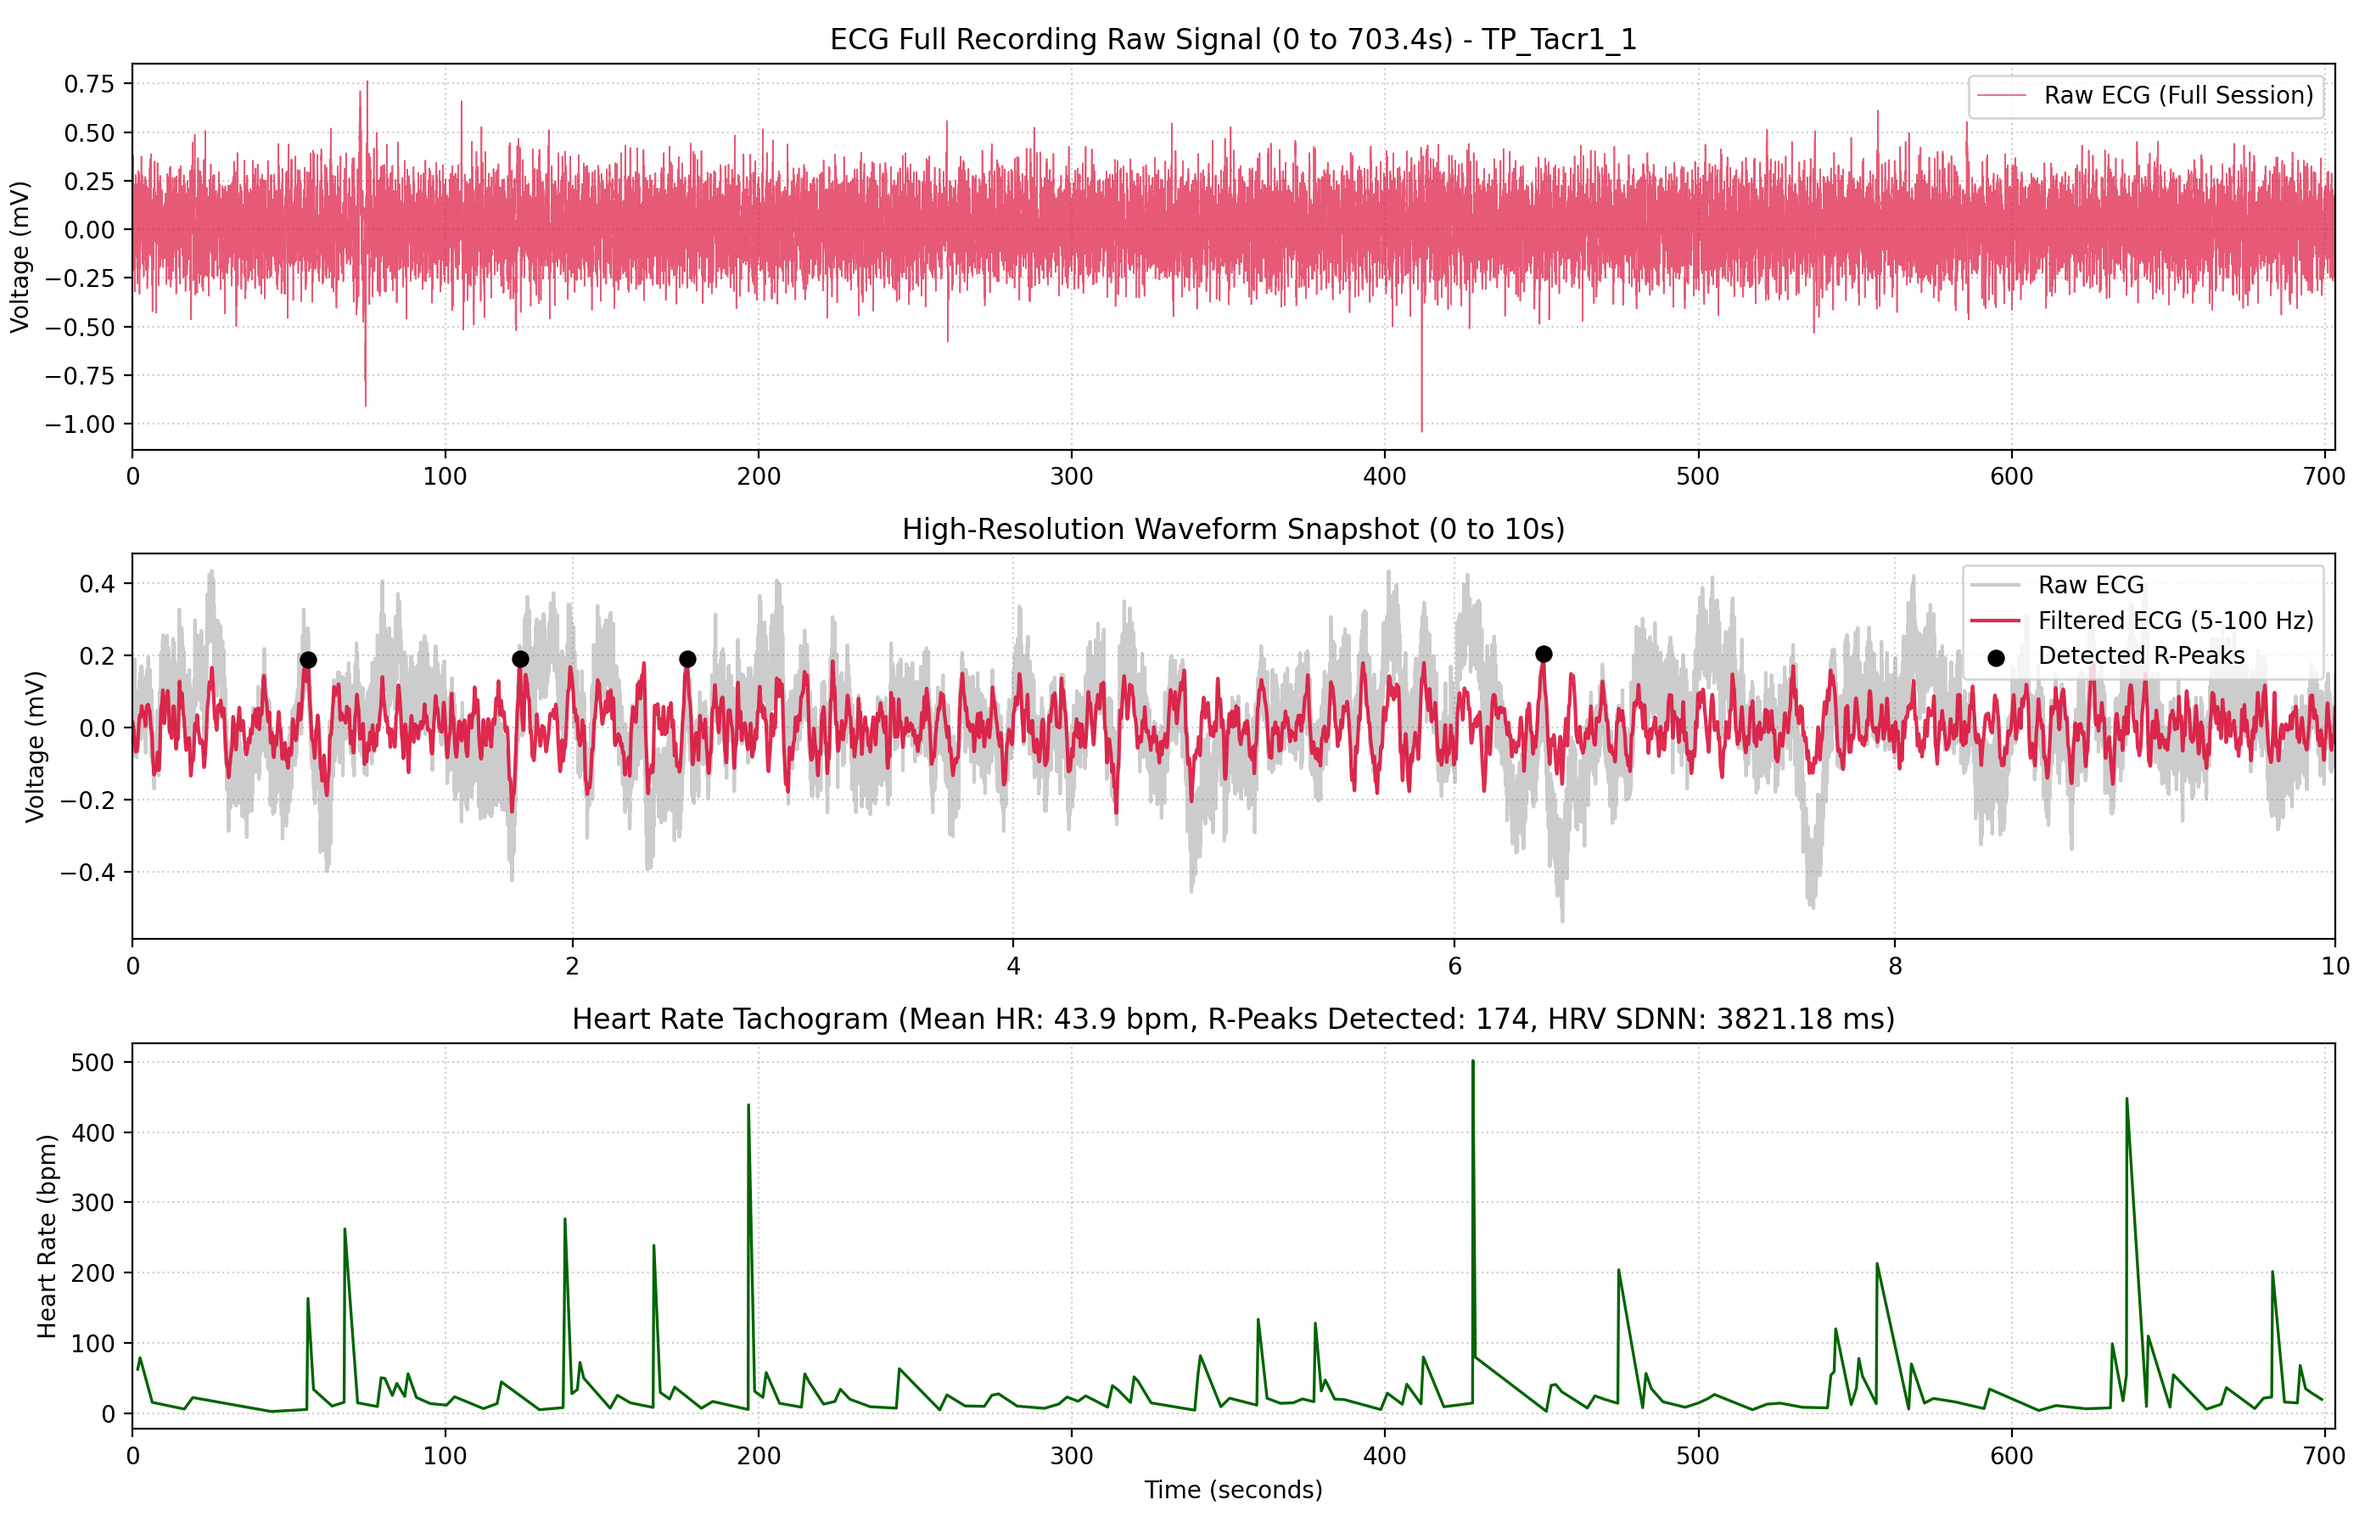
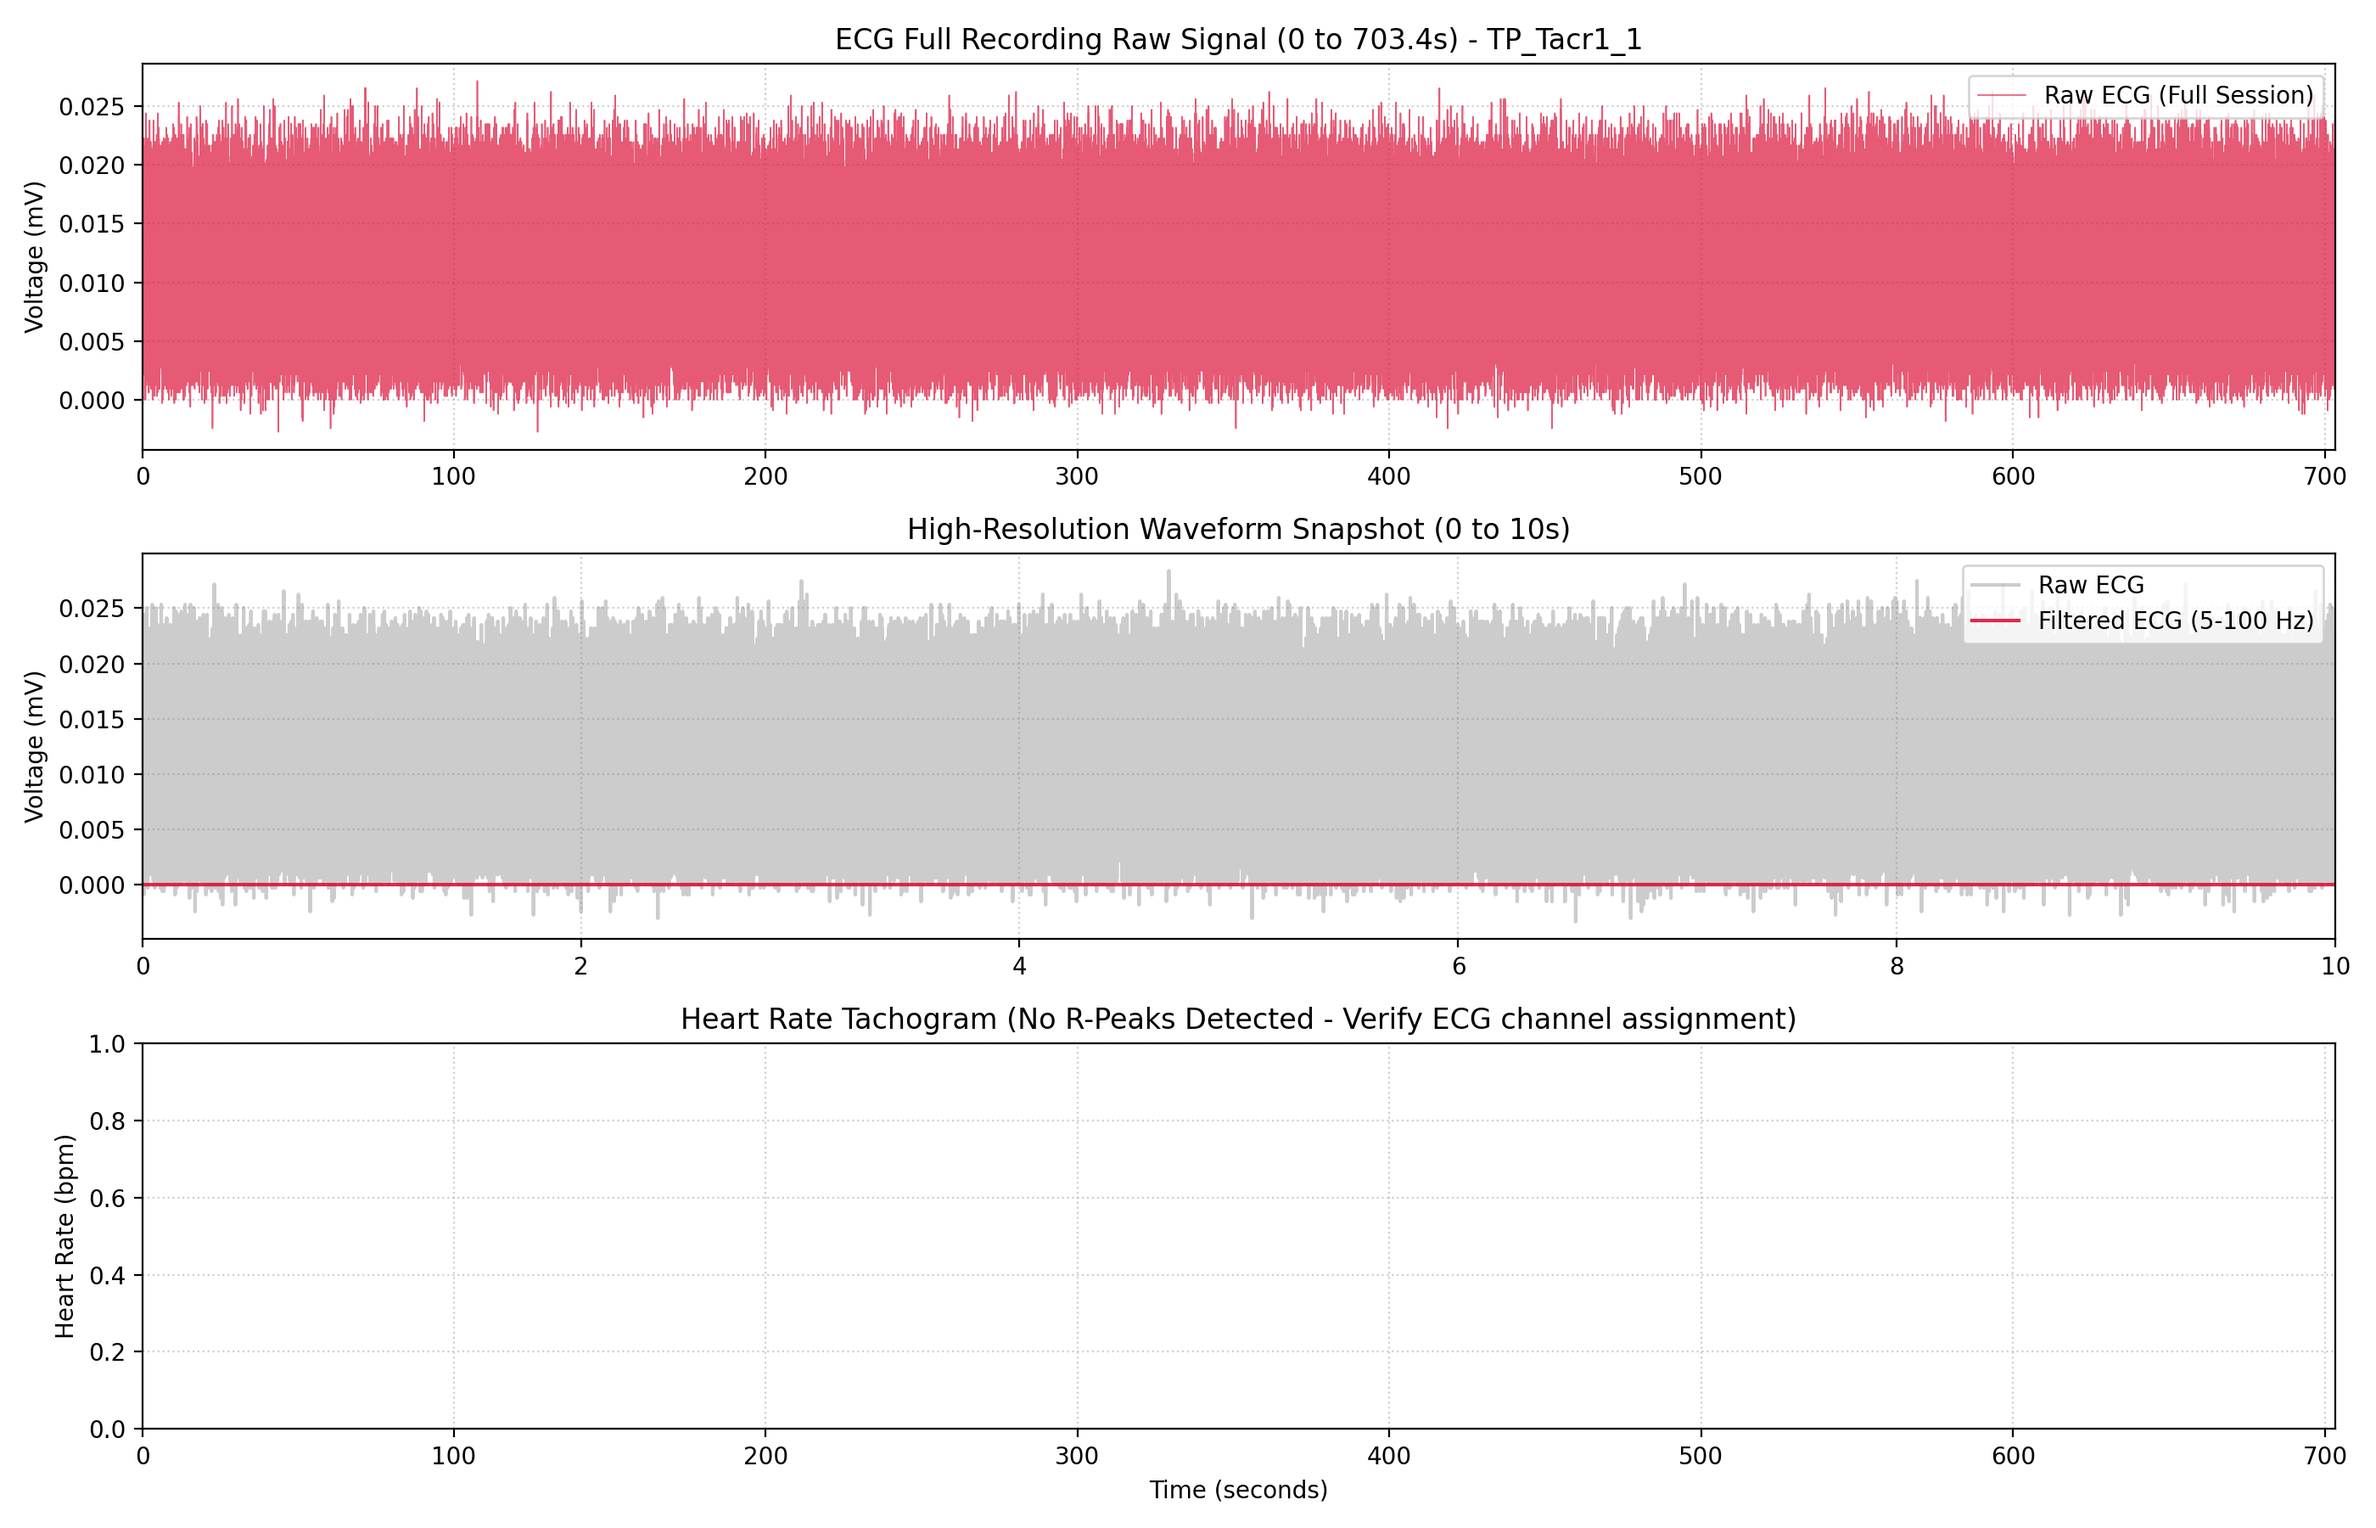
Set default ECG channel to 1 (XA1;1), add --no-ecg flag and enabled toggle for datasets without ECG

diff --git a/src/pipeline/journaler.py b/src/pipeline/journaler.py
@@ -39,8 +39,11 @@ def checkpoint_approve_parameters(config: PipelineConfig, interactive: bool = Tr
     print(f"    Passband: {config.emg.highpass_cutoff} Hz - {config.emg.lowpass_cutoff} Hz | Notch: {config.emg.notch_freq} Hz")
     print(f"    Smoothing Window: {config.emg.smoothing_window_ms} ms | Peak Threshold: {config.emg.peak_threshold_sd} SD")
     print(f"    Apnea Threshold: {config.emg.apnea_threshold_s} s")
-    print(f" - ECG Channel Index: {config.ecg.channel_index} | Fs: {config.ecg.fs} Hz")
-    print(f"    Passband: {config.ecg.highpass_cutoff} Hz - {config.ecg.lowpass_cutoff} Hz | R-Peak Threshold: {config.ecg.r_peak_threshold_sd} SD")
+    if config.ecg.enabled:
+        print(f" - ECG Channel Index: {config.ecg.channel_index} | Fs: {config.ecg.fs} Hz")
+        print(f"    Passband: {config.ecg.highpass_cutoff} Hz - {config.ecg.lowpass_cutoff} Hz | R-Peak Threshold: {config.ecg.r_peak_threshold_sd} SD")
+    else:
+        print(f" - ECG Channel Index: Disabled / Not Recorded")
     print(f" - Sync Channel Index: {config.sync_opto.sync_channel_index} | Opto Channel Index: {config.sync_opto.opto_channel_index}")
     print(f"    Pulse TTL Threshold: {config.sync_opto.pulse_threshold_v} V")
     print(f" - Neuropixel AP Fs: {config.ephys.fs_ap} Hz | PSTH Bin: {config.ephys.bin_size_ms} ms")

diff --git a/scripts/run_local_preproc.py b/scripts/run_local_preproc.py
@@ -25,7 +25,8 @@ def main():
     
     # Channel Index Flags
     parser.add_argument("--emg-channel", type=int, default=0, help="EMG channel index (default: 0)")
-    parser.add_argument("--ecg-channel", type=int, default=3, help="ECG channel index (default: 3)")
+    parser.add_argument("--ecg-channel", type=int, default=1, help="ECG channel index (default: 1 for xa1;1)")
+    parser.add_argument("--no-ecg", action="store_true", help="Disable ECG processing if no ECG was recorded")
     parser.add_argument("--sync-channel", type=int, default=7, help="Sync channel index (default: 7)")
     parser.add_argument("--opto-channel", type=int, default=2, help="Opto channel index (default: 2)")
 
@@ -47,6 +48,7 @@ def main():
                 cfg_dict = cfg_dict["config"]
         config = PipelineConfig.from_dict(cfg_dict)
     else:
+        ecg_enabled = not args.no_ecg
         config = PipelineConfig(
             animal_id=args.animal_id,
             session_id=args.session_id,
@@ -60,6 +62,7 @@ def main():
                 peak_threshold_sd=args.emg_peak_sd
             ),
             ecg=ECGConfig(
+                enabled=ecg_enabled,
                 channel_index=args.ecg_channel,
                 r_peak_threshold_sd=args.ecg_peak_sd
             ),

diff --git a/src/pipeline/processors/proc_ecg.py b/src/pipeline/processors/proc_ecg.py
@@ -14,6 +14,15 @@ def process_ecg(raw_signal: np.ndarray, time_vector: np.ndarray, config: ECGConf
     2. R-peak detection
     3. Instantaneous Heart Rate (bpm) & HRV (SDNN)
     """
+    if not config.enabled or config.channel_index < 0:
+        return ECGProcessed(
+            filtered=np.zeros_like(raw_signal),
+            r_peaks=np.array([]),
+            instantaneous_hr=np.array([]),
+            rr_intervals_ms=np.array([]),
+            hrv_sdnn=0.0
+        )
+
     fs = config.fs
     nyq = 0.5 * fs
     low = config.highpass_cutoff / nyq

diff --git a/src/pipeline/config.py b/src/pipeline/config.py
@@ -22,7 +22,8 @@ class EMGConfig:
 
 @dataclass
 class ECGConfig:
-    channel_index: int = 1
+    enabled: bool = True
+    channel_index: int = 1  # Default to channel 1 (XA1;1)
     fs: float = 10000.0  # Hz
     highpass_cutoff: float = 5.0  # Hz
     lowpass_cutoff: float = 100.0  # Hz

diff --git a/output_TP_Tacr1_1/TP_Tacr1_1_npx2_g4_provenance.md b/output_TP_Tacr1_1/TP_Tacr1_1_npx2_g4_provenance.md
@@ -1,9 +1,9 @@
 # Analysis Provenance & Reproduction Journal
 
-- **Timestamp**: `2026-07-29T15:58:48.967025`
+- **Timestamp**: `2026-07-29T16:05:50.959939`
 - **Subject**: `TP_Tacr1_1`
 - **Session**: `npx2_g4`
-- **Git Commit**: `b0bf8ee74a495ed265f5fce7f165d43644e55fcc (dirty)`
+- **Git Commit**: `169280496dbfa9e94bd44e64f9ba9abb6bb99c6c (dirty)`
 - **Python Version**: `3.12.13`
 - **Raw Data Directory**: `Z:\ramirezlab\pascual\rec_data\TP_Tacr1_1_npx2_g4`
 
@@ -21,7 +21,7 @@
 - **Apnea Threshold**: `2.0 s`
 
 ### ECG Processing
-- **Channel Index**: `3`
+- **Channel Index**: `1`
 - **Sampling Frequency**: `10000.0 Hz`
 - **Bandpass Filter**: `5.0 Hz` to `100.0 Hz` (Notch `60.0 Hz`)
 - **R-Peak Threshold**: `3.0 SD`
@@ -42,9 +42,9 @@
   "mean_respiratory_rate_bpm": 80.00294380953558,
   "emg_mean_snr_db": 40.14756618420838,
   "apnea_events_count": 10,
-  "r_peaks_detected": 174,
-  "mean_heart_rate_bpm": 43.884800648157686,
-  "hrv_sdnn_ms": 3821.180567017202,
+  "r_peaks_detected": 0,
+  "mean_heart_rate_bpm": 0.0,
+  "hrv_sdnn_ms": 0.0,
   "sync_pulses_count": 0,
   "opto_pulses_count": 1080,
   "neuropixel_units_count": 8,
